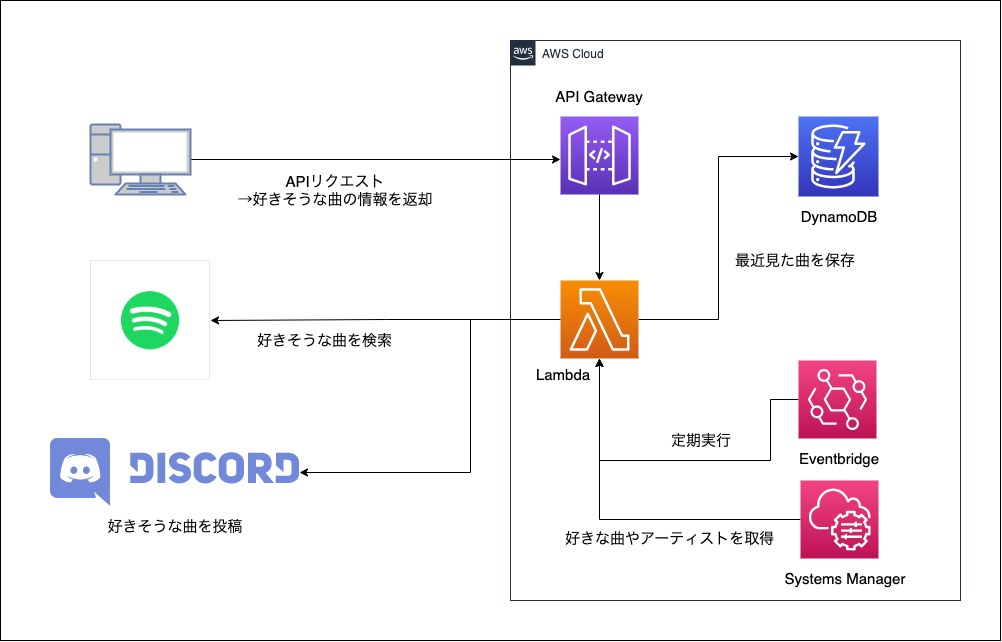
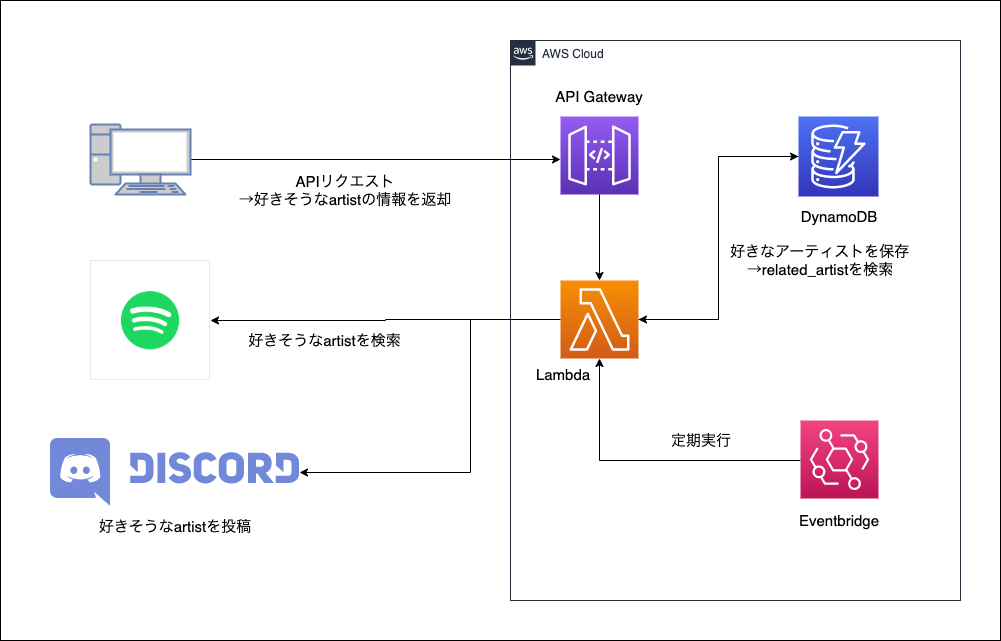
要件をちょっと変更

diff --git a/fetch_songs.py b/fetch_songs.py
@@ -31,11 +31,13 @@ def fetch_related_artists(artist_uri: str) -> List[Artist]:
     return related_artists
 
 
-def fetch_artist_track(artist_info: Artist) -> Artist:
+def fetch_newest_album(artist_uri: str) -> str:
     """
-    入力Artistのtop_track,newst_albumを取得し、これらを追加したArtistを返す
+    入力artist_uriの最新のalbumを返す
     """
+    albums = spotify.artist_albums(artist_uri)
+    print(albums)
     return None
 
 
-print(related_artists)
+print(fetch_newest_album("spotify:artist:19ojIp8CiO4yOQlvzVJEGS"))

diff --git a/schema.py b/schema.py
@@ -7,3 +7,4 @@ class Artist:
     url: str
     spotify_uri: str
     image_url: str
+    newest_album_url: str

diff --git a/readme.md b/readme.md
@@ -7,12 +7,14 @@
 - SpotifyAPIを使ってみる
 
 ## やりたいこと
-- あらかじめ保存しておいた好きな曲やアーティスト情報からSpotifyAPIで関連する曲やアーティストを検索する
-    - 「あらかじめ保存」の保存先はSystems Manager、検索する主体はLambda
+- あらかじめ保存しておいた好きなアーティスト情報からSpotifyAPIで関連する曲やアーティストを検索する
+    - 「あらかじめ保存」の保存先はDynamoDB、検索する主体はLambda
     - Spotipyのartist_related_artistsで関連アーティストを検索する
-        - 曲をレコメンドするときはtop trackか直近のアルバムを返す
-- 同じ結果を検索しないように、直近の検索結果をDynamoDBに保存する
-    - TTL機能を利用してしばらくしたら消す
+        - 曲をレコメンドするときは直近のアルバムを返す
+        - レコメンド対象になったアーティストはDynamoDBに追加され、次回の検索の種になる
+            - DynamoDBに入っているアーティストは検索対象にしない
+            - 迷走し始めた時用に、DynamoDBの内容を消せるAPIも用意しておく
+            - DynamoDBの内容はTTL機能を利用してしばらくしたら消す
 - 定期実行も行うが、APIを叩いて任意実行できるようにもする
     - LambdaをAPIGatewayと統合することで実現
     - 検索対象がアーティストか曲かでエンドポイントを分ける？
